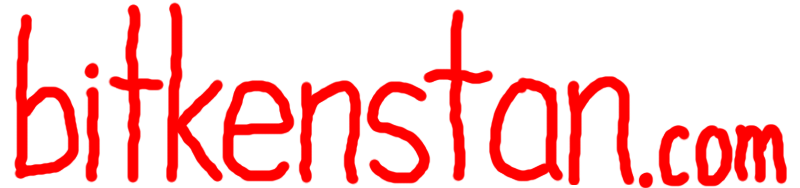
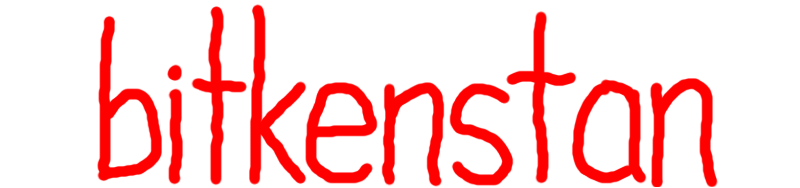
updated from .com to fleek

diff --git a/list/index.html b/list/index.html
@@ -100,7 +100,7 @@ tr:nth-child(even) {
   <a name="top_of_page"></a>
 <a name="home_title"></a>
 
-<p style="text-align:center"><a href="../index.html"><img src="../images/bitkenstandotcom.jpg" width=300 border="0"></a></p>
+<p style="text-align:center"><a href="../index.html"><img src="../images/bitkenstan-logo.jpg" width=300 border="0"></a></p>
 <p style="text-align:center">Bitkenstan <a href="../index.html">Home</a> | Playlist</p>
 <p style="text-align:center">All NFTs are 1-of-1, 100% rare. <a href="https://wax.atomichub.io/explorer/collection/wax-mainnet/bitkenstanxx" target="_blank">See them all</a>.</p>
 

diff --git a/index.html b/index.html
@@ -102,7 +102,7 @@ Browse the Bitkenstan NFTs located on the <a href="https://wax.atomichub.io/expl
 <style="text-align:left"><small>All links/contacts: <a href="https://linktr.ee/crrdlx" target="_blank">linktr.ee/crrdlx</small></a>
 
 <center>
-<img src="images/bitkenstandotcom.jpg" width=200>
+<img src="images/bitkenstan-logo.jpg" width=200>
 </center>
 
 <!--
